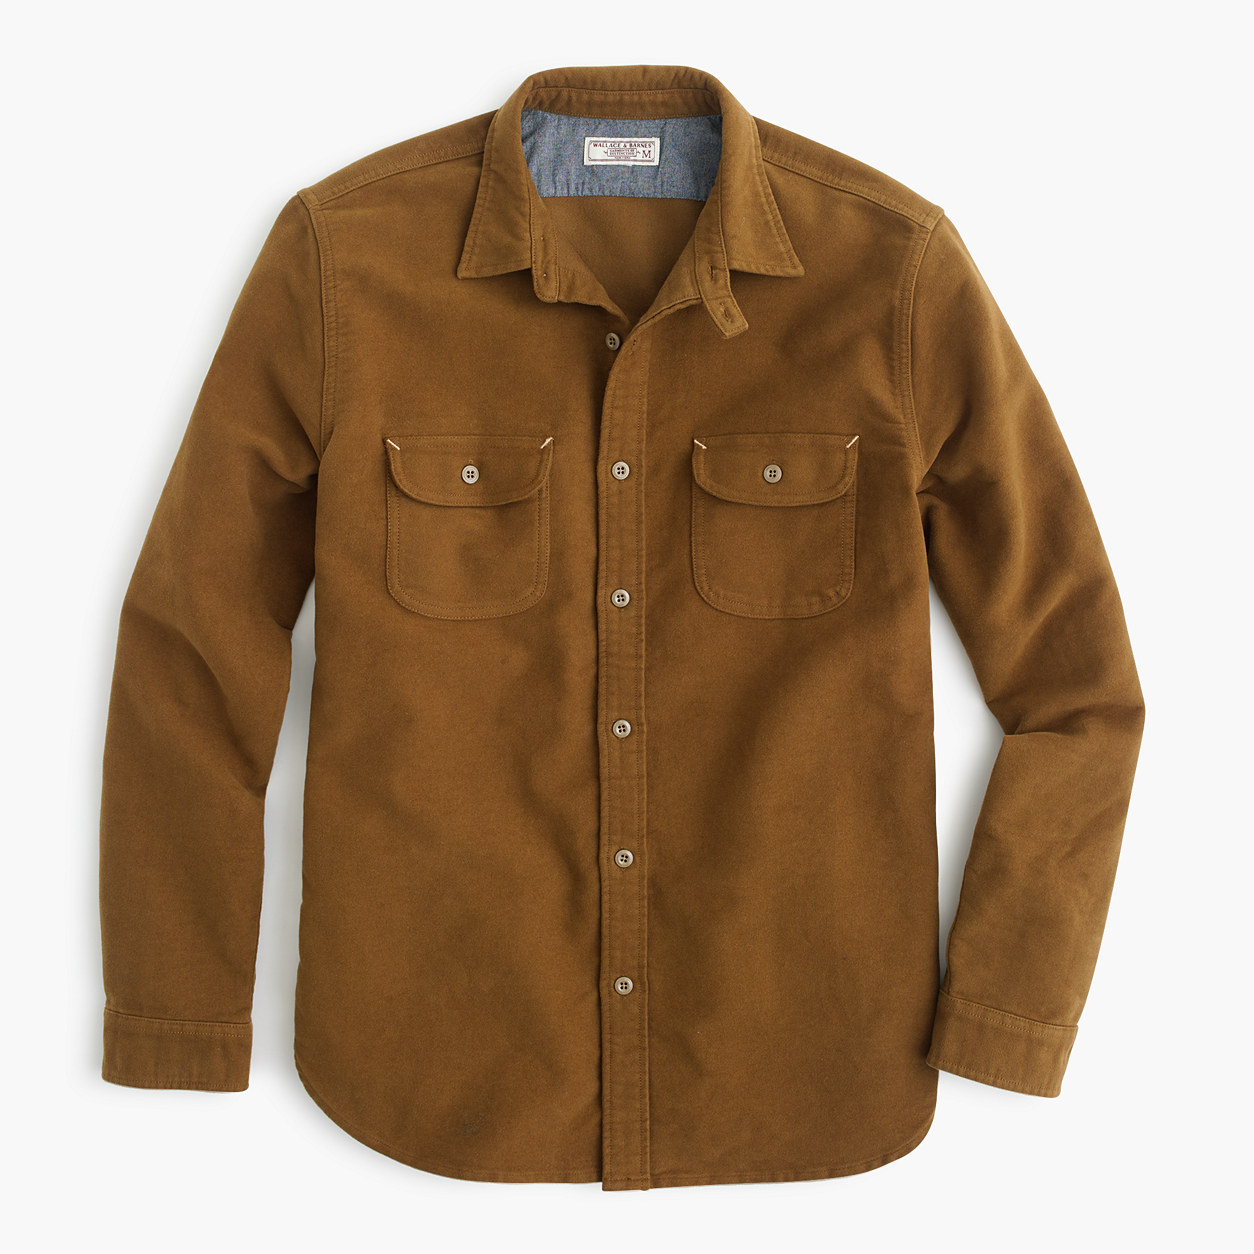
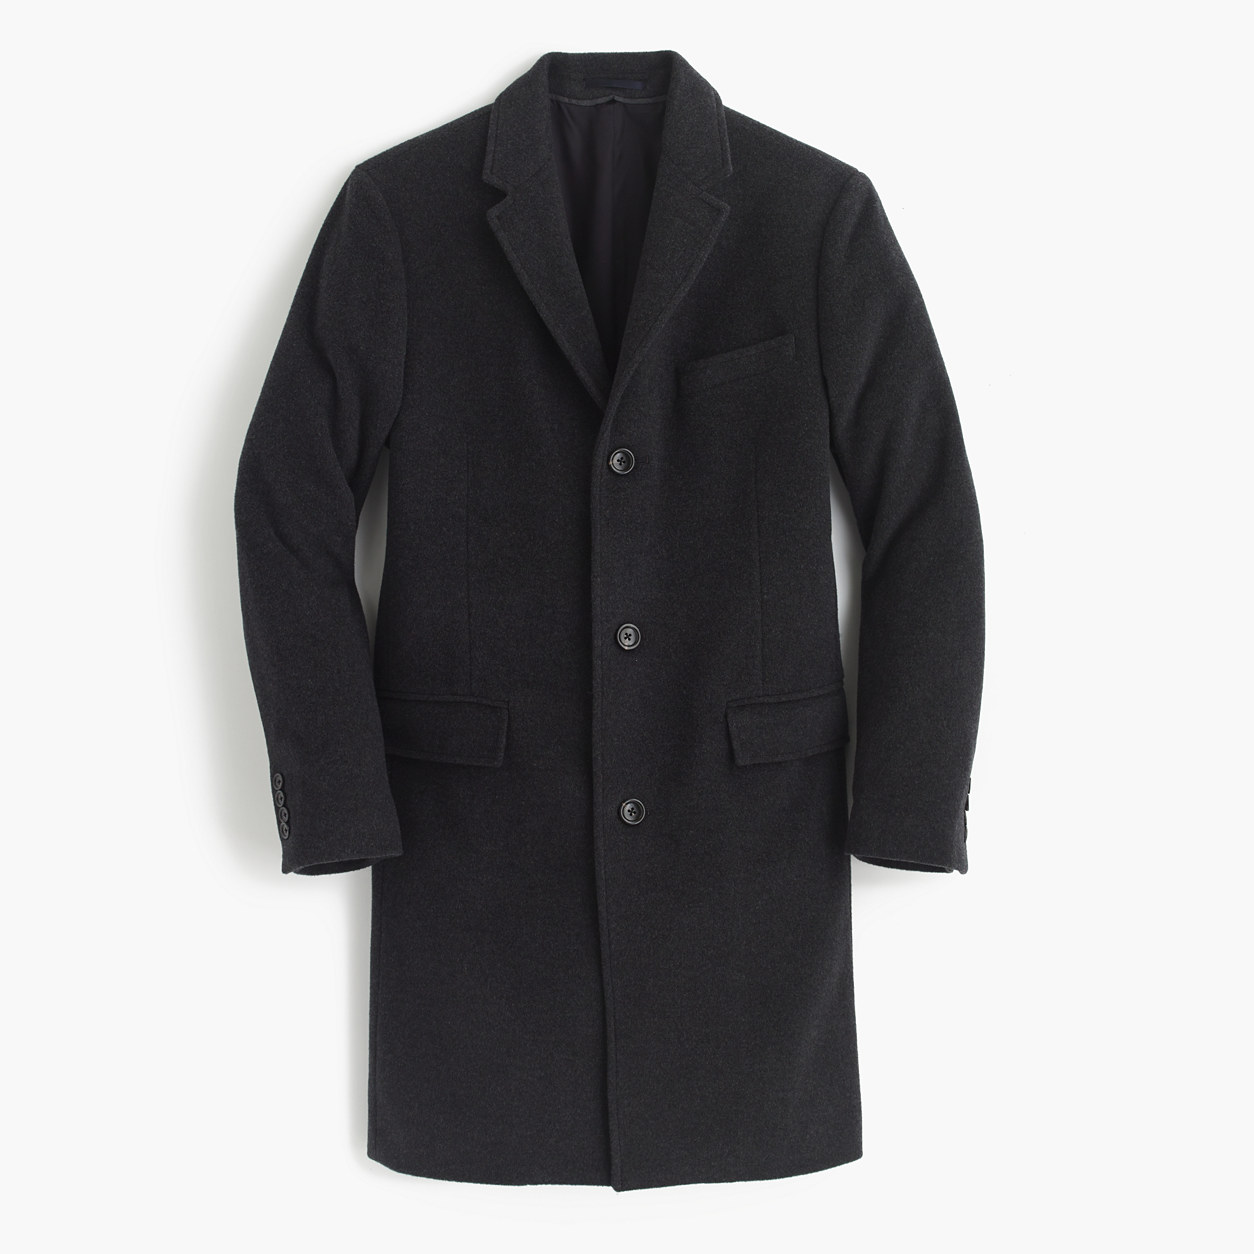
add images

diff --git a/dev/Lightbox.jsx b/dev/Lightbox.jsx
@@ -3,8 +3,8 @@ import Thumbnail from './Thumbnail';
 
 
 export class Lightbox extends Component {
-	constructor(){
-		super()
+	constructor(props){
+		super(props)
 		this.state={
 			fullScreen:false,
 			currentImage:0,
@@ -21,11 +21,16 @@ export class Lightbox extends Component {
 		this.setState({
 			currentImage: img
 		})
+		console.log('fooo');
+		console.log(e.target.getAttribute('data-src'));
+		// console.log(this.refs.foo.getAttribute('src'));
+		this.props.changeImage(e.target.getAttribute('data-src'))
 	}
 	hideDetail(){
 		this.setState({
 			fullScreen:false
 		})
+		// this.props.changeImage(this.default)
 	}
 	showDetail(){
 		this.setState({
@@ -33,33 +38,31 @@ export class Lightbox extends Component {
 		})
 	}
 	enlarge(e){
-		var node = this.refs.MainImage;
+		// var node = this.refs.MainImage;
 		var target = e.target.getBoundingClientRect();
 
 		this.setState({
-			left:'-' + (e.clientX - target.left)+'px',
-			top: '-' + (e.clientY - target.top)+'px'
+			left:'-' + ((e.clientX - target.left) * 2)+'px',
+			top: '-' + ((e.clientY - target.top) * 2)+'px'
 		})
 	}
 	render() {
 		return (
 				<div className="ProductImage">
 				
-					<div>
 						<img ref="MainImage"
 							onMouseMove={this.enlarge} 
 							onMouseEnter={this.showDetail}
 							onMouseLeave={this.hideDetail}
 							className="MainImage" 
 							src={'/prod/'+ this.props.mainImage} />
-					</div>
 					<div className="ProductThumbnails">
 					{this.props.productData.featureImage.map(function(img, ind) {
-						return <img onClick={this.selectItem} className="Thumnails" data-img={ind} key={ind} src={'/prod/'+img}/>
+						return <img onClick={this.selectItem} className="Thumnails" data-src={img} data-img={ind} key={ind} src={'/prod/'+img}/>
 					},this)}
 					</div>
 				<div className={`overlay ${this.state.fullScreen ? 'on' : ''}`}>
-					<img src={'/prod/' + this.props.productData.featureImage[this.state.currentImage]} style={{left:this.state.left, top:this.state.top }}/>
+					<img src={'/prod/' + this.props.mainImage} style={{left:this.state.left, top:this.state.top }}/>
 				 </div>
 				</div>
 		);

diff --git a/index.html b/index.html
@@ -34,23 +34,22 @@
 	}
 	.productBox{
 		position:relative;
-		width:980px;
-		/*border:1px solid pink;*/
+		width:960px;
 		margin:0 auto;
 	}
 	.ProductImage{
 		float:left;
-		width:40%;
-		height:400px;
+		width:418px;
+		height:418px;
 		background: rgba(0,0,0,.2);
 	}
 	.MainImage{
-		width: 400px;
-		height:533px;
+		width: 418px;
+		height:418px;
 	}
 	.Thumnails{
-		height:100px;
-		width:100px;
+		height:75px;
+		width:75px;
 		border:2px solid rgba(0,0,0,.7);
 	}
 	.Thumnails+.Thumnails{
@@ -106,7 +105,7 @@
 		margin-bottom:25px;
 	}
 	.sizeBox{list-style-type: none;margin:0;padding:0;}
-	.sizeBox li{font-size:10px;padding:5px;display:inline-block;border:1px solid rgba(0,0,0,.1);color:rgba(0,0,0,.1);margin-right:15px;margin-bottom:15px;width:100px;text-align: center;text-transform: uppercase;} 
+	.sizeBox li{font-size:10px;padding:5px;display:inline-block;border:1px solid rgba(0,0,0,.1);color:rgba(0,0,0,.1);margin-right:15px;margin-bottom:15px;width:75px;text-align: center;text-transform: uppercase;} 
 	.sizeBox [data-status="true"]{
 		border:1px solid black;
 		cursor:pointer;
@@ -136,7 +135,7 @@
 	}
 	.productInfoBox{
 		float:right;
-		width: 40%;
+		width: 310px;
 		padding:0 20px;
 	}
 
@@ -164,8 +163,8 @@
 	/*border:1px solid lime;*/
 	background: rgba(0,0,0,.1);
 	display:none;
-	height:533px;
-	width:40%;
+	height:418px;
+	width:310px;
 	overflow: hidden;
 	z-index: 1;
 }
@@ -176,7 +175,7 @@
 	display: block;
 }
 .Sidebar{
-	width:20%;
+	width:192px;
 	float:left;
 }
 .Sidebar dt{
@@ -185,14 +184,13 @@
 	font-weight: bold;
 	margin-bottom:10px;
 }
+.Sidebar dd + dt{
+	margin-top:10px;
+}
 .Sidebar dd{
 	font-size:12px;
 	margin-bottom:5px;
 	color:rgba(0,0,0,.7);
-}
-
-html{
-	height:9000px;
 }
 </style>
 <div id="app"></div>

diff --git a/dev/ProductPage.jsx b/dev/ProductPage.jsx
@@ -28,7 +28,7 @@ export class ProductPage extends Component {
 		this.addItem = this.addItem.bind(this);
 		this.addSize = this.addSize.bind(this);
 		this.quantity = this.quantity.bind(this);
-		// this.changeImage = this.changeImage.bind(this);
+		this.changeImage = this.changeImage.bind(this);
 	}
 	addSize(e){
 		var size = e.target.getAttribute('data-size');
@@ -62,12 +62,15 @@ export class ProductPage extends Component {
 			size:''	
 		}
 	}
-	// changeImage(e){
-	// 	console.log(e.target.getAttribute('data-image'));
-	// 	this.setState({
-	// 		mainImage : e.target.getAttribute('data-image')
-	// 	})
-	// }
+	changeImage(e = this.props.productData.featureImage[0]){
+		// var defaultImage = this.props.productData.featureImage[0];
+		console.log('changeImage');
+		// var image = e.target ? e.target.getAttribute('data-image') : e;
+		console.log(e);
+		this.setState({
+			mainImage : e
+		})
+	}
 	isObjectValid(obj){
 		var valid = true;
 		var itemsCopy = [...this.state.items];
@@ -107,7 +110,7 @@ export class ProductPage extends Component {
 				<Topnav/>
 				<div className="productBox">
 					<Sidebar/>
-					<Lightbox {...this.props} {...this.state}/>
+					<Lightbox {...this.props} {...this.state} changeImage={this.changeImage}/>
 					<div className="productInfoBox">
 						<ProductInfo {...this.state} {...this.props} changeHandler={this.quantity}/>
 						<SizeInfo addColor={this.addColor} addSize={this.addSize} changeImage={this.changeImage} {...this.props} {...this.state}/>

diff --git a/dev/SizeInfo.jsx b/dev/SizeInfo.jsx
@@ -14,6 +14,7 @@ export class SizeInfo extends Component {
 	selectedColor(e){
 		var evt = e;
 		var itemNo = evt.target.getAttribute('data-number');
+		console.log(e.target.getAttribute('data-image'))
 
 		this.setState({
 			currentSelection: +itemNo
@@ -24,7 +25,7 @@ export class SizeInfo extends Component {
 			})
 			this.props.addColor(e)
 		}
-		// this.props.changeImage(e)
+		this.props.changeImage(e.target.getAttribute('data-image'))
 	}
 	colorMouseLeave(e){
 		var target = e.target;
@@ -36,6 +37,9 @@ export class SizeInfo extends Component {
 			currentSelection:0,
 			colorClicked:false
 		})
+		console.log('passing in: ' + e.target.getAttribute('data-image'));
+		this.props.changeImage()
+
 	}
 	render() {
 		var currentSelection = this.state.currentSelection

diff --git a/dev/Sidebar.jsx b/dev/Sidebar.jsx
@@ -4,14 +4,24 @@ export class Sidebar extends Component {
 	render() {
 		return (
 <dl className="Sidebar">
-	<dt>Mens</dt>
-	<dd>casual shirts</dd>
-	<dd>t-shirts & sweats</dd>
-	<dd>shorts</dd>
-	<dd>pants</dd>
-	<dd>denim</dd>
-	<dd>shoes</dd>
-	<dd>accessories</dd>
+	<dt>Clothing</dt>
+		<dd>casual shirts</dd>
+		<dd>dress shirts</dd>
+		<dd>sweaters</dd>
+		<dd>coats & jackets</dd>
+		<dd>t-shirts & sweats</dd>
+		<dd>suits</dd>
+		<dd>shorts</dd>
+		<dd>pants</dd>
+		<dd>denim</dd>
+		<dd>underwear & pajamas</dd>
+	<dt>shoes & accessories</dt>
+		<dd>shoes</dd>
+		<dd>socks</dd>
+		<dd>bags</dd>
+		<dd>ties</dd>
+		<dd>hats</dd>
+
 </dl>
 		);
 	}

diff --git a/dev/productData.js b/dev/productData.js
@@ -1,12 +1,12 @@
 module.exports = {
 	productData:{
-		productName : 'Cotton Cable Cardigan',
-		featureImage: ['img1.jpg', 'img2.jpg'],
+		productName : 'TOPCOAT IN ITALIAN WOOL-CASHMERE WITH THINSULATE',
+		featureImage: ['img1.jpg', 'img2.jpg', 'img3.jpg'],
 		price: 128.00,
 		productNumber:'f9886',
 		colors:[
-			{ color : 'heather ivory', 
-			  hex: '#F3E1BF',
+			{ color : 'dark camel', 
+			  hex: '#a2602c',
 			  productImage:'product1.jpg',
 			  sizes : [ { size : 'x-small' , status: true  , hover : 'in-stock'      }, 
 			  			{ size : 'small'   , status: true  , hover : 'in-stock'      }, 
